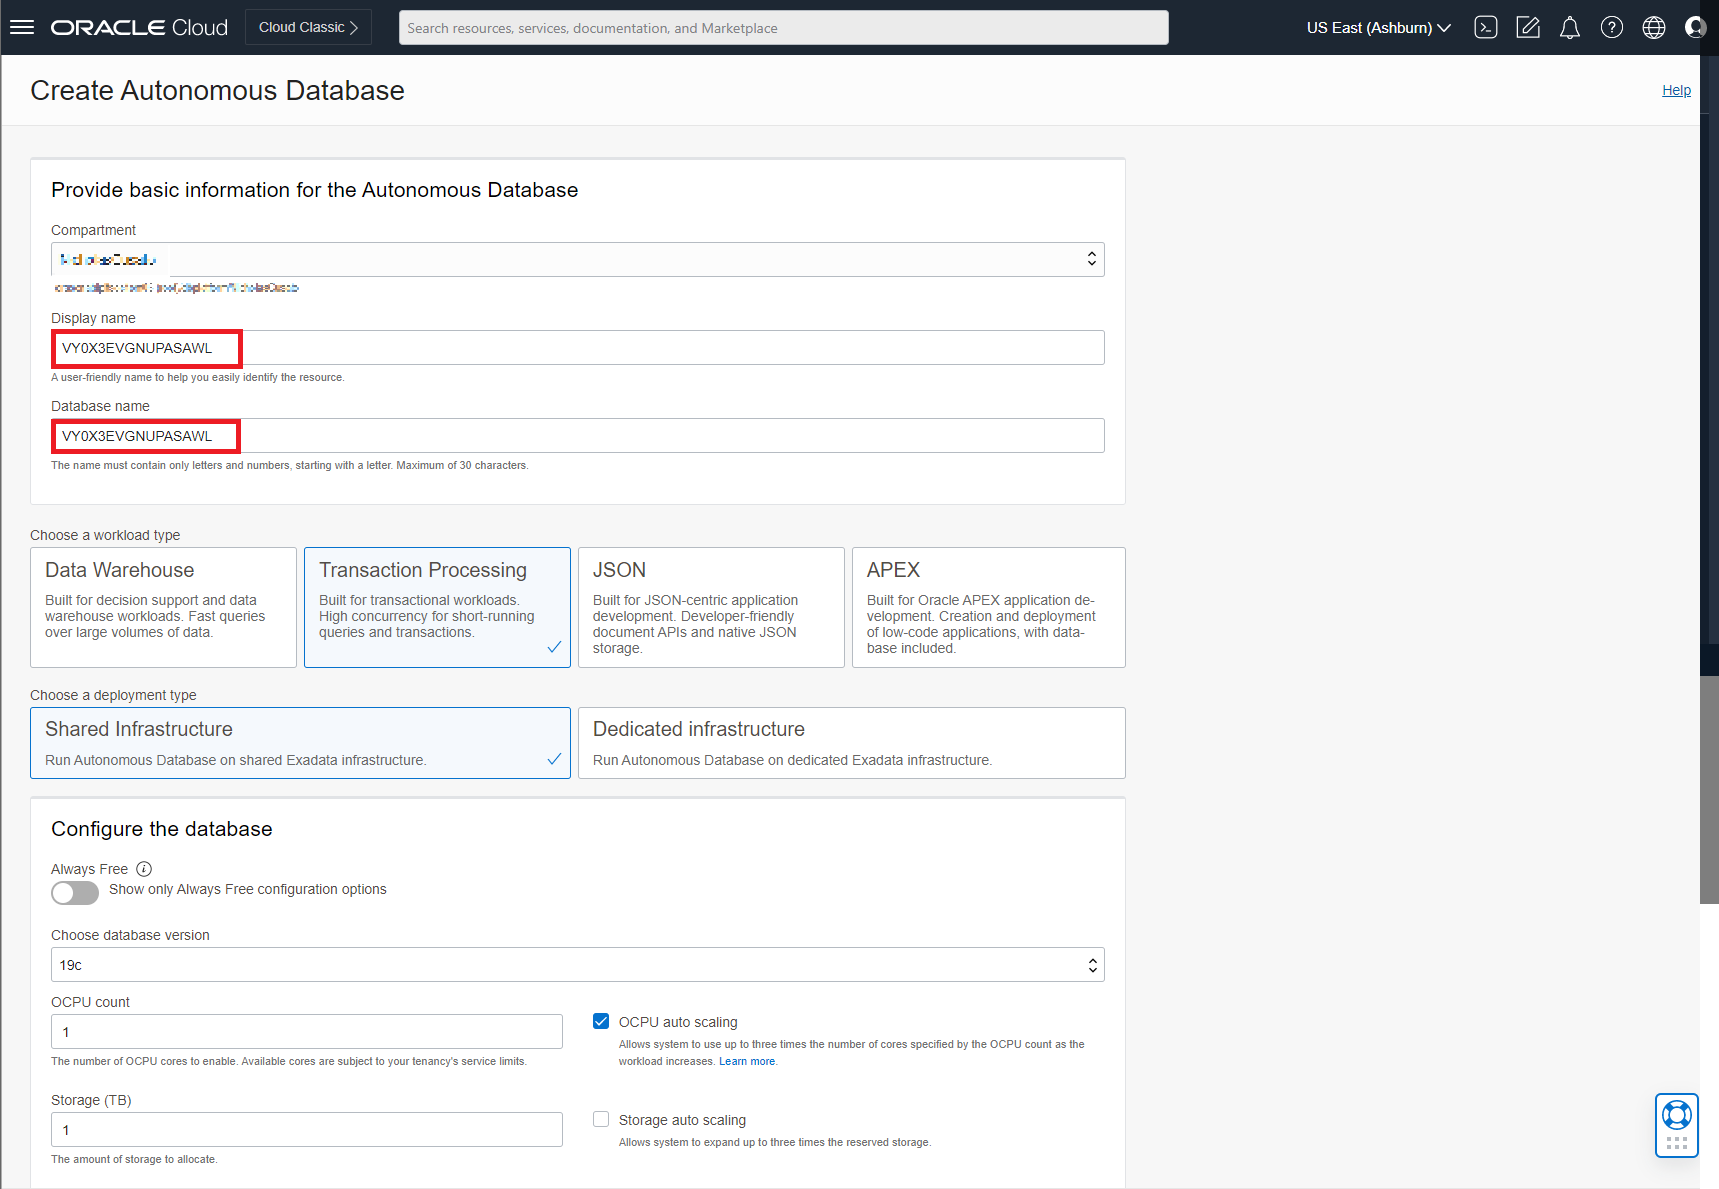
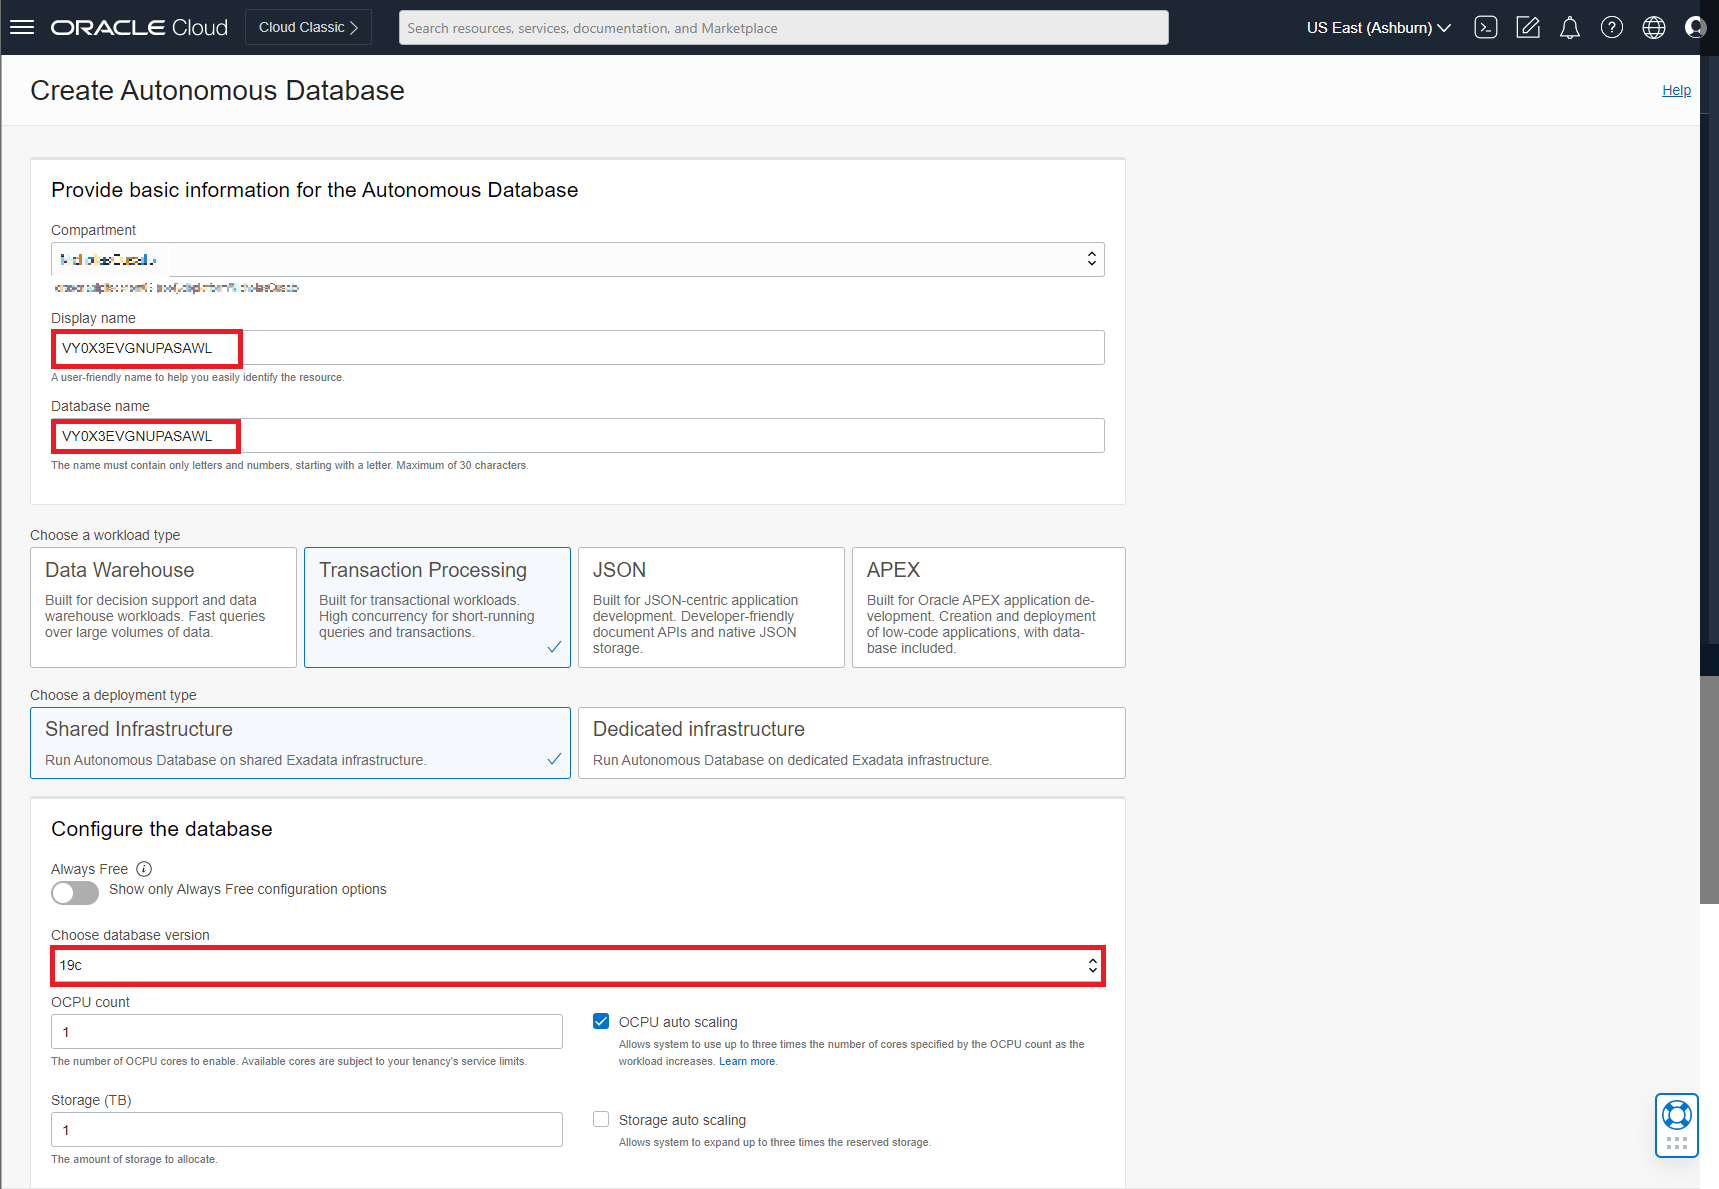
Update for QA

Changed region(s): [[0.0308, 0.778, 0.6475, 0.8402]]

diff --git a/atp-twitter-api/introduction/introduction.md b/atp-twitter-api/introduction/introduction.md
@@ -42,12 +42,13 @@ This lab assumes you have:
 - Python 3.9 installed on your computer (Lab won't run properly with newer versions of Python)
 - Basic familiarity with Python and SQL language
 - IDE of your choice installed on your computer (All examples in this lab will use VSCode - [Link to install](https://code.visualstudio.com/download))
+- An **Elevated Twitter Developer account** [Link to sign up](https://developer.twitter.com/en/docs/twitter-api)
 
 Download the lab files here: 
 [SQL Files](https://objectstorage.us-ashburn-1.oraclecloud.com/p/vmkYRTjFDKT14aBgppExmxjWXNForfovxySRrgqJGlWMacsc6mMtClQY1a6foD3c/n/orasenatdpltsecitom03/b/Twitter_LL/o/Twitter_LL1.zip)
 [Python Files](https://objectstorage.us-ashburn-1.oraclecloud.com/p/tVAwp-XWRsm1oouSHDzzZwyUQ5TErSPpPNhuYPMTbSJOZlC-Pvsed-caGfHYrkV5/n/orasenatdpltsecitom03/b/Twitter_LL/o/Twitter_LL2.zip)
 
->**Note:** Creating a Twitter Developer account may take up to a couple days to be approved depending on your responses to the questions. It is recommended to skip ahead to Lab 2: Task 3 if you want to get a head start on the process.
+>**Note:** Creating an **Elevated** Twitter Developer account may take up to a couple days to be approved depending on your responses to the questions. It is recommended to start this process before beginning the lab. Click the link to get started: [Link to sign up](https://developer.twitter.com/en/docs/twitter-api).
 
 ## Want to learn more about Autonomous Database?
 - [Oracle Autonomous Data Warehouse Documentation](https://docs.oracle.com/en/cloud/paas/autonomous-data-warehouse-cloud/index.html)

diff --git a/atp-twitter-api/extract-api/extract-api.md b/atp-twitter-api/extract-api/extract-api.md
@@ -102,7 +102,7 @@ This lab assumes you have:
 
 2. Open the browser and access the following [Link](https://developer.twitter.com/en/docs/twitter-api) to open the Twitter API documentation.
 
-3. Select **Sign Up** if you do not have previous access to Twitter API, otherwise, **login with your credentials.** The sign up process may take up to a couple days to get approved depending on your responses, but most of the time, it is pretty quick. 
+3. Select **Sign Up** if you do not have previous access to Twitter API, otherwise, **login with your credentials.** The sign up process may take up to a couple days to get approved depending on your responses. 
 
 4. After completing the information to sign up (if you haven't done so already), you can create an app by selecting **Create app**.
 

diff --git a/atp-twitter-api/create-schema/create-schema.md b/atp-twitter-api/create-schema/create-schema.md
@@ -32,7 +32,7 @@ This lab assumes you have:
 
     ![Select Create Autonomous Database](images/create-autonomous-database.png) 
 
-3. (optional) Enter a display name and database name.  
+3. (optional) Enter a display name and database name. Select a **database version** (19c), whichever default version will work also.  
 
     ![Enter database name](images/name-database.png) 
 
